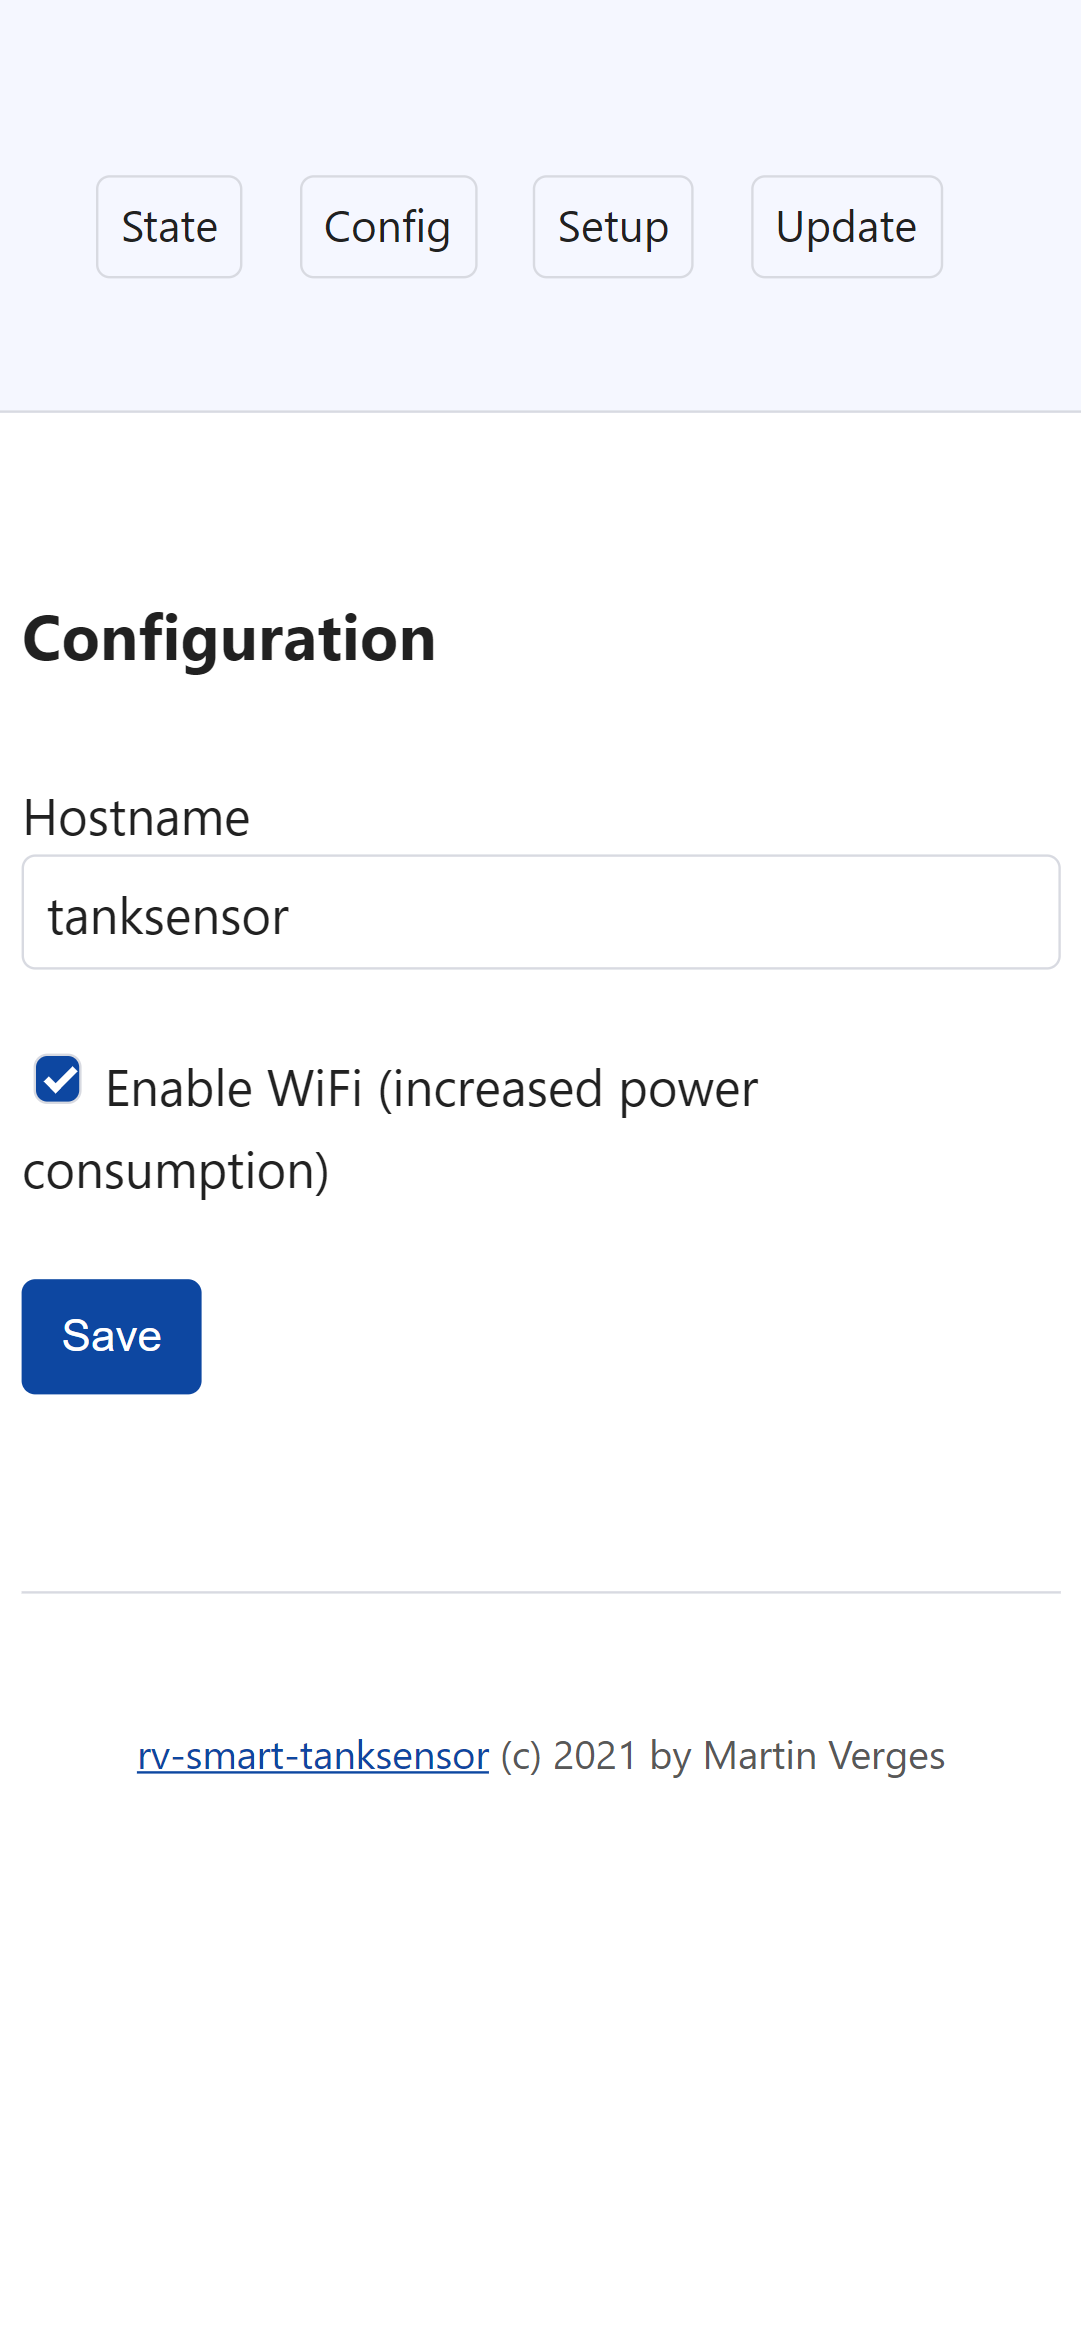
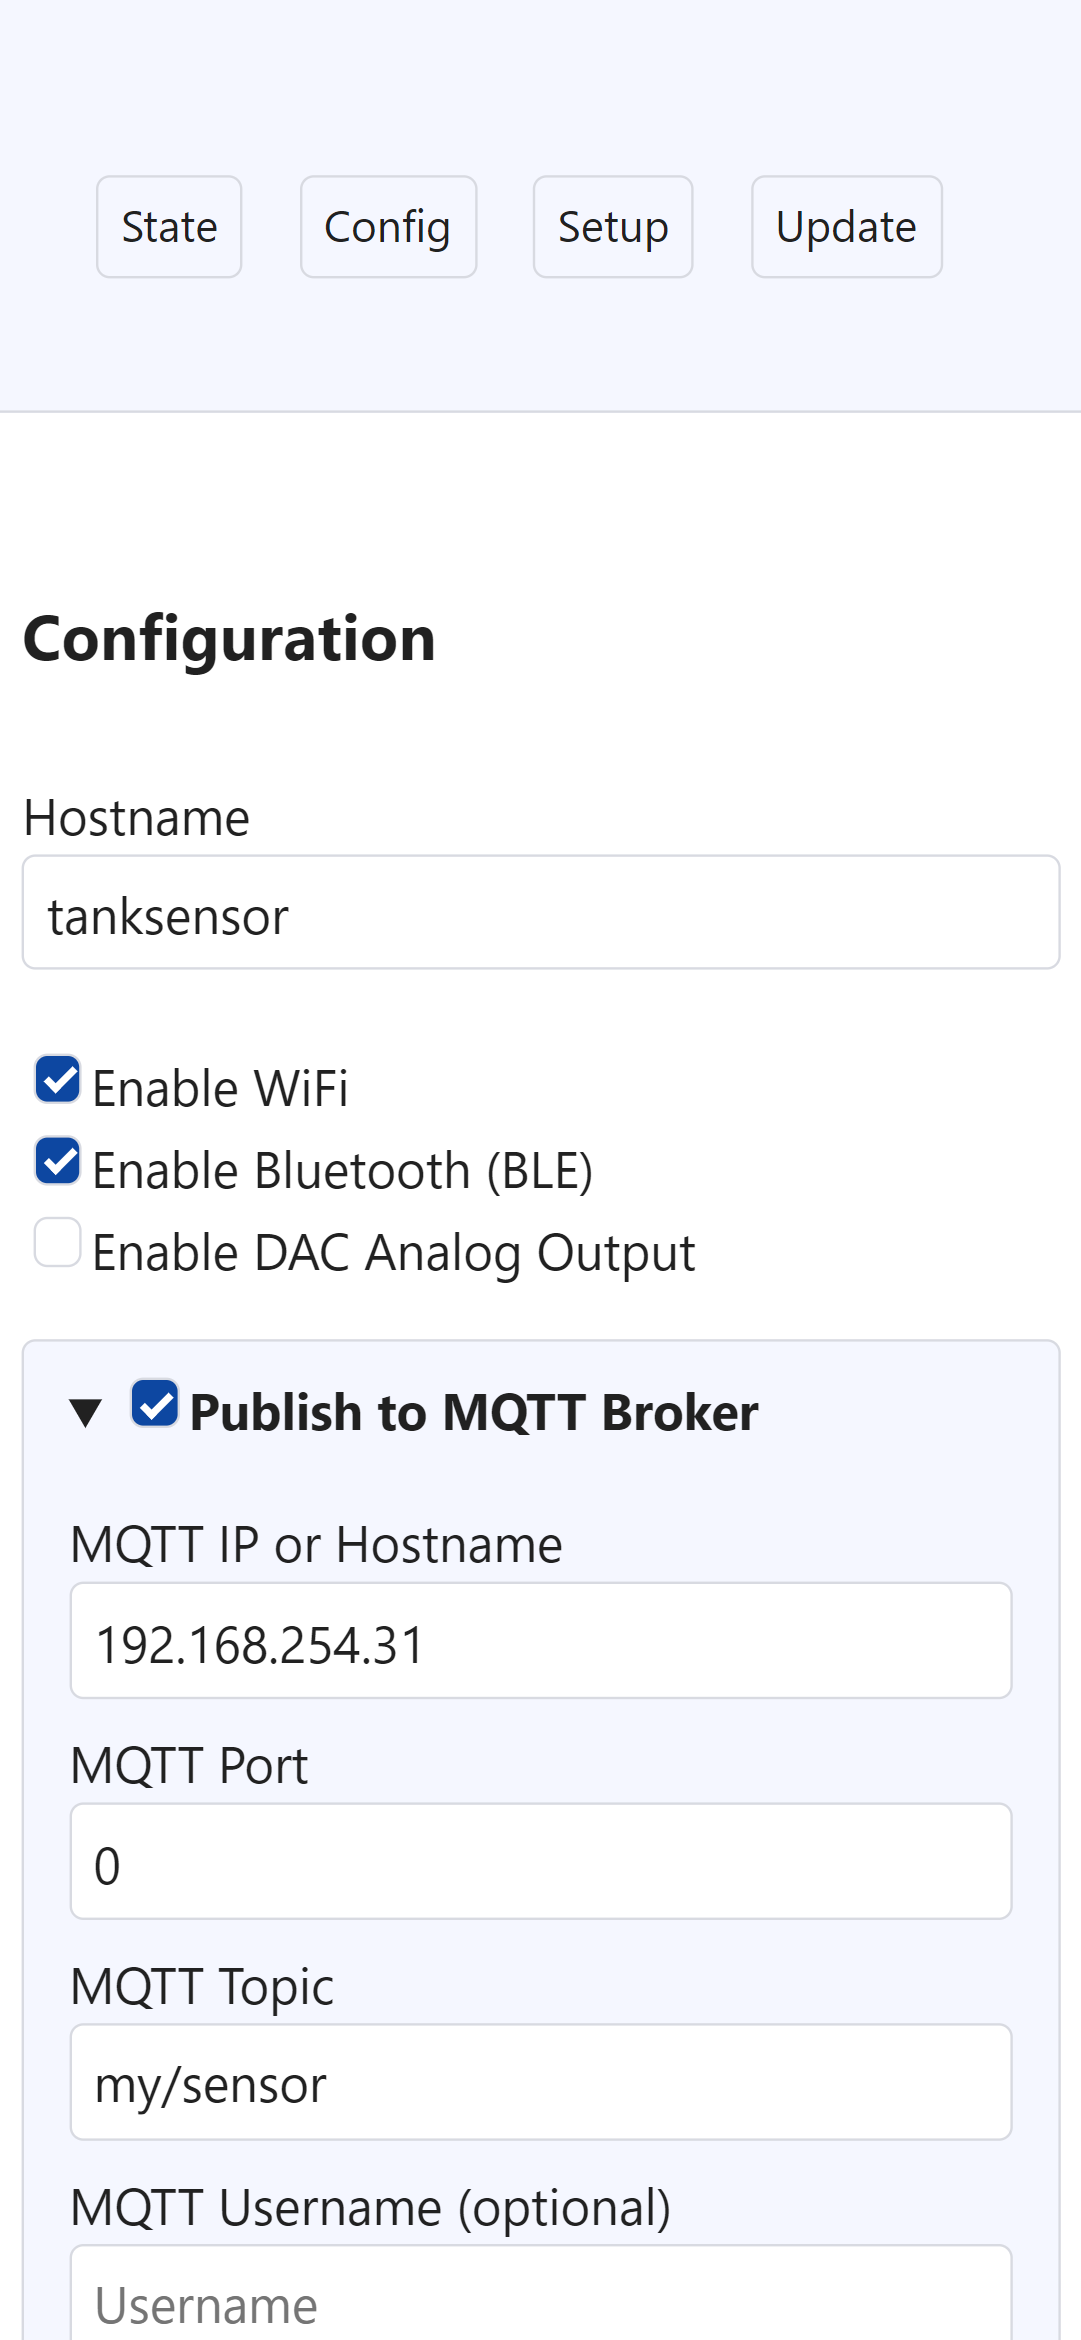
New screenshots, new API endpoints, fixed API bugs
- Screenshots of the new configuration options
- Reworked some API endpoints, fixed bugs like /api/level output
- Fixed small HTML bugs
- Updated API Insomnia config file
- and more

diff --git a/data/index.html b/data/index.html
@@ -34,7 +34,7 @@
       </nav>
     </header>
     <main>
-      <div>Current Level <strong id="tankleveltext">70%</strong></div>
+      <div>Current Level <strong id="tankleveltext">0%</strong></div>
       <div class="progress-bar">
         <span id="tanklevel" class="progress-bar-fill" style="width: 0%;"></span>
       </div>
@@ -51,7 +51,7 @@
         $("#tankleveltext").text(level+"%");
       }
 
-      $.get( "/api/level", function( level ) {
+      $.get( "/api/level/current", function( level ) {
         updateProgressBar(parseInt(level));
       });
 

diff --git a/data/config.html b/data/config.html
@@ -134,7 +134,7 @@
     <script src="js/jquery-3.6.0.min.js"></script>
     <script>
       $("#btn-restart").click(function() {
-        $.ajax("/api/config", {
+        $.ajax("/api/reset", {
           type : 'POST',
           dataType : "json",
           contentType : 'application/json',

diff --git a/src/api-routes.h b/src/api-routes.h
@@ -7,6 +7,7 @@
  *
 **/
 
+#include <AsyncJson.h>
 #include <ArduinoJson.h>
 #include <ESPAsyncWebServer.h>
 #include <FS.h>
@@ -25,10 +26,11 @@ void APIRegisterRoutes() {
     request->send(200, "application/json", "{\"message\":\"Resetting the sensor!\"}");
     request->send(response);
     yield();
-    // FIXME: we can only hope that the response get out to the client, or?
+    delay(250);
     ESP.restart();
   });
-  webServer.on("/api/wifi-list", HTTP_GET, [](AsyncWebServerRequest *request) {
+
+  webServer.on("/api/wifi/list", HTTP_GET, [](AsyncWebServerRequest *request) {
     AsyncResponseStream *response = request->beginResponseStream("application/json");
     DynamicJsonDocument jsonDoc(2048);
     JsonArray wifiList = jsonDoc.createNestedArray("wifiList");
@@ -59,7 +61,7 @@ void APIRegisterRoutes() {
     request->send(response);
   });
 
-  webServer.on("/api/wifi-status", HTTP_GET, [](AsyncWebServerRequest *request) {
+  webServer.on("/api/wifi/status", HTTP_GET, [](AsyncWebServerRequest *request) {
     AsyncResponseStream *response = request->beginResponseStream("application/json");
     DynamicJsonDocument jsonDoc(1024);
 
@@ -90,6 +92,7 @@ void APIRegisterRoutes() {
       request->send(200, "application/json", "{\"message\":\"Begin of Setup requested\"}");
     } else request->send(200, "text/plain", "Begin of Setup requested");
   });
+
   webServer.on("/api/setup/status", HTTP_GET, [](AsyncWebServerRequest *request) {
     if (request->contentType() == "application/json") {
       String output;
@@ -99,18 +102,21 @@ void APIRegisterRoutes() {
       request->send(200, "application/json", output);
     } else request->send(200, "text/plain", String(Tanklevel.isSetupRunning()));
   });
+
   webServer.on("/api/setup/end", HTTP_POST, [](AsyncWebServerRequest *request) {
     Tanklevel.setEndAsync();
     if (request->contentType() == "application/json") {
       request->send(200, "application/json", "{\"message\":\"End of Setup requested\"}");
     } else request->send(200, "text/plain", "End of Setup requested");
   });
+
   webServer.on("/api/setup/abort", HTTP_POST, [](AsyncWebServerRequest *request) {
     Tanklevel.setAbortAsync();
     if (request->contentType() == "application/json") {
       request->send(200, "application/json", "{\"message\":\"Abort requested\"}");
     } else request->send(200, "text/plain", "Abort requested");
   });
+
   webServer.onRequestBody([](AsyncWebServerRequest * request, uint8_t *data, size_t len, size_t index, size_t total) {
     if (request->url() == "/api/setup/values" && request->method() == HTTP_POST) {
       // Do a simple linear tank level setup using lower+upper reading
@@ -126,7 +132,6 @@ void APIRegisterRoutes() {
       } else request->send(200, "application/json", "{\"message\":\"Setup completed\"}");
 
     } else if (request->url() == "/api/config" && request->method() == HTTP_POST) {
-      // Configure the hostname of the sensor
       DynamicJsonDocument jsonBuffer(1024);
       deserializeJson(jsonBuffer, (const char*)data);
 
@@ -167,8 +172,29 @@ void APIRegisterRoutes() {
       preferences.putString("mqttPass", jsonBuffer["mqttpass"].as<String>());
       
       request->send(200, "application/json", "{\"message\":\"New hostname stored in NVS, reboot required!\"}");
+
+    } else if (request->url() == "/api/level/data" && request->method() == HTTP_POST) {
+      DynamicJsonDocument jsonBuffer(2048);
+      deserializeJson(jsonBuffer, (const char*)data);
+
+      Tanklevel.writeSingleEntrytoNVS(255, jsonBuffer["setupDone"].as<boolean>());
+
+      JsonArray array = jsonBuffer["data"].as<JsonArray>();
+      uint8_t i = 0;
+      for (JsonVariant v : array) {
+          Tanklevel.writeSingleEntrytoNVS(i, v.as<int>());
+          yield();
+          i++;
+          if (i > 100) break;
+      }
+      request->send(200, "application/json", "{\"message\":\"Wrote level config to NVS, restarting now!\"}");
+      
+      yield();
+      delay(250);
+      ESP.restart();
     }
   });
+
   webServer.on("/api/config", HTTP_GET, [](AsyncWebServerRequest *request) {
     if (request->contentType() == "application/json") {
       String output;
@@ -190,36 +216,40 @@ void APIRegisterRoutes() {
       serializeJson(doc, output);
       request->send(200, "application/json", output);
     } else request->send(415, "text/plain", "Unsupported Media Type");
-          request->send(415, "application/json", "{\"message\":\"Unsupported Media Type!\"}");
-
   });
+
   webServer.on("/api/rawvalue", HTTP_GET, [](AsyncWebServerRequest *request) {
     if (request->contentType() == "application/json") {
       String output;
       StaticJsonDocument<16> doc;
-      doc["raw"] = Tanklevel.getMedian(true);
+      doc["raw"] = Tanklevel.getSensorMedianValue(true);
       serializeJson(doc, output);
       request->send(200, "application/json", output);
-    } else request->send(200, "text/plain", (String)Tanklevel.getMedian(true));
+    } else request->send(200, "text/plain", (String)Tanklevel.getSensorMedianValue(true));
   });
-  webServer.on("/api/level", HTTP_GET, [](AsyncWebServerRequest *request) {
+
+  webServer.on("/api/level/current", HTTP_GET, [](AsyncWebServerRequest *request) {
     if (request->contentType() == "application/json") {
       String output;
       StaticJsonDocument<16> doc;
-      doc["levelPercent"] = Tanklevel.getPercentage(true);
+      doc["levelPercent"] = Tanklevel.getCalculatedPercentage(true);
       serializeJson(doc, output);
       request->send(200, "application/json", output);
-    } else request->send(200, "text/plain", (String)Tanklevel.getPercentage(true));
+    } else request->send(200, "text/plain", (String)Tanklevel.getCalculatedPercentage(true));
   });
+
   webServer.on("/api/esp/heap", HTTP_GET, [](AsyncWebServerRequest * request) {
     request->send(200, "text/plain", String(ESP.getFreeHeap()));
   });
+
   webServer.on("/api/esp/cores", HTTP_GET, [](AsyncWebServerRequest * request) {
     request->send(200, "text/plain", String(ESP.getChipCores()));
   });
+
   webServer.on("/api/esp/freq", HTTP_GET, [](AsyncWebServerRequest * request) {
     request->send(200, "text/plain", String(ESP.getCpuFreqMHz()));
   });
+
   webServer.on("/api/wifi/info", HTTP_GET, [](AsyncWebServerRequest *request) {
       AsyncResponseStream *response = request->beginResponseStream("application/json");
       DynamicJsonDocument json(1024);
@@ -229,24 +259,18 @@ void APIRegisterRoutes() {
       serializeJson(json, *response);
       request->send(response);
   });
-  webServer.on("/api/wifi/disable", HTTP_POST, [](AsyncWebServerRequest *request) {
-    enableWifi = false;
-    preferences.putBool("enableWifi", false);
-    if (request->contentType() == "application/json") { 
-      request->send(200, "application/json", "{\"message\":\"Shutting down WiFi\"}");
-    } else request->send(200, "text/plain", "Shutting down WiFi");
-  });
-  webServer.on("/api/wifi/enable", HTTP_POST, [](AsyncWebServerRequest *request) {
-    enableWifi = true;
-    preferences.putBool("enableWifi", true);
-    if (request->contentType() == "application/json") { 
-      request->send(200, "application/json", "{\"message\":\"Permanently enabling WiFi\"}");
-    } else request->send(200, "text/plain", "Permanently enabling WiFi");
-  });
-  webServer.on("/api/level-info", HTTP_GET, [](AsyncWebServerRequest *request) {
+
+  webServer.on("/api/level/data", HTTP_GET, [](AsyncWebServerRequest *request) {
     AsyncResponseStream *response = request->beginResponseStream("application/json");
     DynamicJsonDocument json(3072);
-    for (int i = 0; i < 100; i++) json["val" + String(i)] = Tanklevel.getLevelData(i);
+    json["setupDone"] = Tanklevel.isConfigured();
+
+    const size_t CAPACITY = JSON_ARRAY_SIZE(101);
+    StaticJsonDocument<CAPACITY> doc;
+    JsonArray array = doc.to<JsonArray>();
+    for (int i = 0; i <= 100; i++) array.add(Tanklevel.getLevelData(i));
+    json["data"] = array;
+
     serializeJson(json, *response);
     request->send(response);
   });

diff --git a/src/tanklevel.cpp b/src/tanklevel.cpp
@@ -33,6 +33,20 @@ bool TANKLEVEL::writeToNVS() {
   }
 }
 
+bool TANKLEVEL::writeSingleEntrytoNVS(uint8_t i, int value) {
+  if (i == 255 && preferences.begin(NVS.c_str(), false)) {
+    preferences.putBool("setupDone", value > 0);
+    preferences.end();
+    return true;
+  } else if (i < 0 or i > 100) return false;
+  if (preferences.begin(NVS.c_str(), false)) {
+    preferences.putInt(String("val" + String(i)).c_str(), value);
+    preferences.end();
+    return true;
+  }
+  return false;
+}
+
 int TANKLEVEL::getLevelData(int perc) {
   if (perc >= 0 and perc <= 100) {
     return levelConfig.readings[perc];
@@ -69,7 +83,7 @@ bool TANKLEVEL::isConfigured() {
   return levelConfig.readings[0] > 0;
 }
 
-int TANKLEVEL::getMedian(bool cached) {
+int TANKLEVEL::getSensorMedianValue(bool cached) {
   if (cached) return lastMedian;
   if (hx711.wait_ready_retry(100, 5)) {
     lastMedian = (int)floor(hx711.get_median_value(10) / 1000);
@@ -80,9 +94,9 @@ int TANKLEVEL::getMedian(bool cached) {
   }
 }
 
-int TANKLEVEL::getPercentage(bool cached) {
-  int val = lastState;
-  if (!cached) val = getMedian(false);
+int TANKLEVEL::getCalculatedPercentage(bool cached) {
+  int val = lastMedian;
+  if (!cached) val = getSensorMedianValue(false);
   for(int x=100; x>0; x--) {
     if (val >= levelConfig.readings[x]) return x;
   }
@@ -130,7 +144,7 @@ bool TANKLEVEL::beginLevelSetup() {
   setupConfig.start = false;
   if (!isSetupRunning()) {  // Start the level setup
     setupConfig.valueCount = 0;
-    setupConfig.readings[setupConfig.valueCount++] = getMedian(false);
+    setupConfig.readings[setupConfig.valueCount++] = getSensorMedianValue(false);
     Serial.printf("Begin level setup with minValue of %d\n", setupConfig.readings[0]);
     return true;
   } else {
@@ -247,8 +261,8 @@ int TANKLEVEL::runLevelSetup() {
       endLevelSetup();
       return 0;
     }
-    Serial.printf("Recording new entry with a value of %d\n", getMedian(false));
-    setupConfig.readings[setupConfig.valueCount++] = getMedian(true);
+    Serial.printf("Recording new entry with a value of %d\n", getSensorMedianValue(false));
+    setupConfig.readings[setupConfig.valueCount++] = getSensorMedianValue(true);
     return lastMedian;
   } else return 0;
 }

diff --git a/src/tanklevel.h b/src/tanklevel.h
@@ -29,7 +29,6 @@ class TANKLEVEL
             int readings[101] = {0};               // pressure readings to map to percentage filling 0% - 100%
         } levelConfig;
 
-        int lastState = 0;                         // last reading in percent
         int lastMedian = 0;                        // last reading median value
 
         struct state_t {
@@ -70,10 +69,10 @@ class TANKLEVEL
         void setLimits(float lower_end, float upper_end);
 
         // Read Median(10) raw value from sensor
-        int getMedian(bool cached = false);
+        int getSensorMedianValue(bool cached = false);
 
         // Calculate current level in percent. Requires valid level setup.
-        int getPercentage(bool cached = false);
+        int getCalculatedPercentage(bool cached = false);
 
         // Get the configured level for a percentage value
         int getLevelData(int perc);
@@ -86,6 +85,9 @@ class TANKLEVEL
 
         // Create a level db from lower and upper reading (only for tanks with linear form)
         bool setupFrom2Values(int lower, int upper);
+
+        // Write a single level data entry to NVS, i=0-100%, 255 value 0 or 1 for levelsetup done
+        bool writeSingleEntrytoNVS(uint8_t i, int value);
 
         // Start a new level setup
         bool beginLevelSetup();

diff --git a/src/tanksensor.cpp b/src/tanksensor.cpp
@@ -248,18 +248,18 @@ void loop() {
       Timing.lastSensorRead = runtime();
       int val = -1;
       if (Tanklevel.isConfigured()) {
-        val = Tanklevel.getPercentage();
+        val = Tanklevel.getCalculatedPercentage();
         events.send(String(val).c_str(), "level", runtime());
         if (enableDac) dacValue(val);
         if (enableBle) updateBleCharacteristic(val);
         if (enableMqtt && mqttTopic.length() > 0) {
           mqttClient.publish((mqttTopic + "/tanklevel").c_str(), 0, true, String(val).c_str());
         }
-        Serial.printf("[SENSOR] Current tank level %d percent, raw value is %d\n", val, Tanklevel.getMedian(true));
+        Serial.printf("[SENSOR] Current tank level %d percent, raw value is %d\n", val, Tanklevel.getSensorMedianValue(true));
       } else {
         if (enableDac) dacValue(0);
         if (enableBle) updateBleCharacteristic(0);
-        val = Tanklevel.getMedian();
+        val = Tanklevel.getSensorMedianValue();
         Serial.printf("[SENSOR] Tanklevel not configured, please run the setup! Raw sensor value = %d\n", val);
       }
     }

diff --git a/README.md b/README.md
@@ -123,6 +123,8 @@ Here you can correct the WLAN data.
 All provided RESTful APIs have been documented using the free [Insomnia software](https://insomnia.rest/).
 You can import the collection file called [Insomnia_api_spec.json](/Insomnia_api_spec.json?raw=true) and find all available API endpoints and run and test them directly.
 
+<img src="images/api.png?raw=true" alt="Insomnia API description" width="40%">
+
 ## Alternatives
 
 ### Pressure based (like this project)
